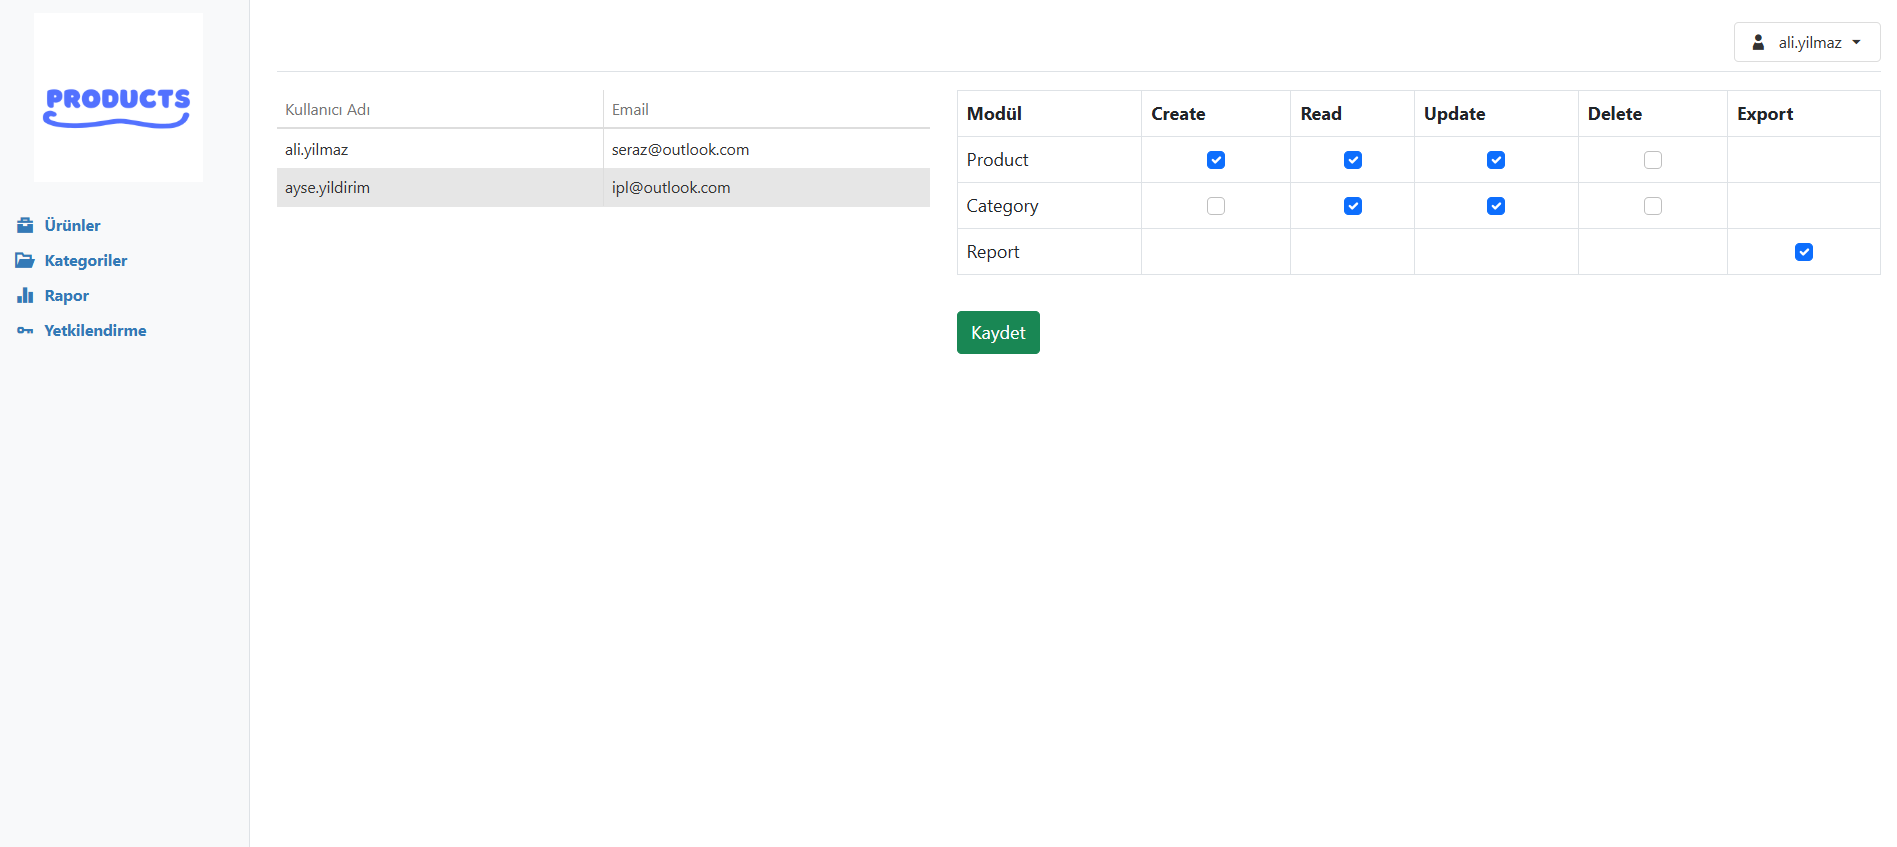
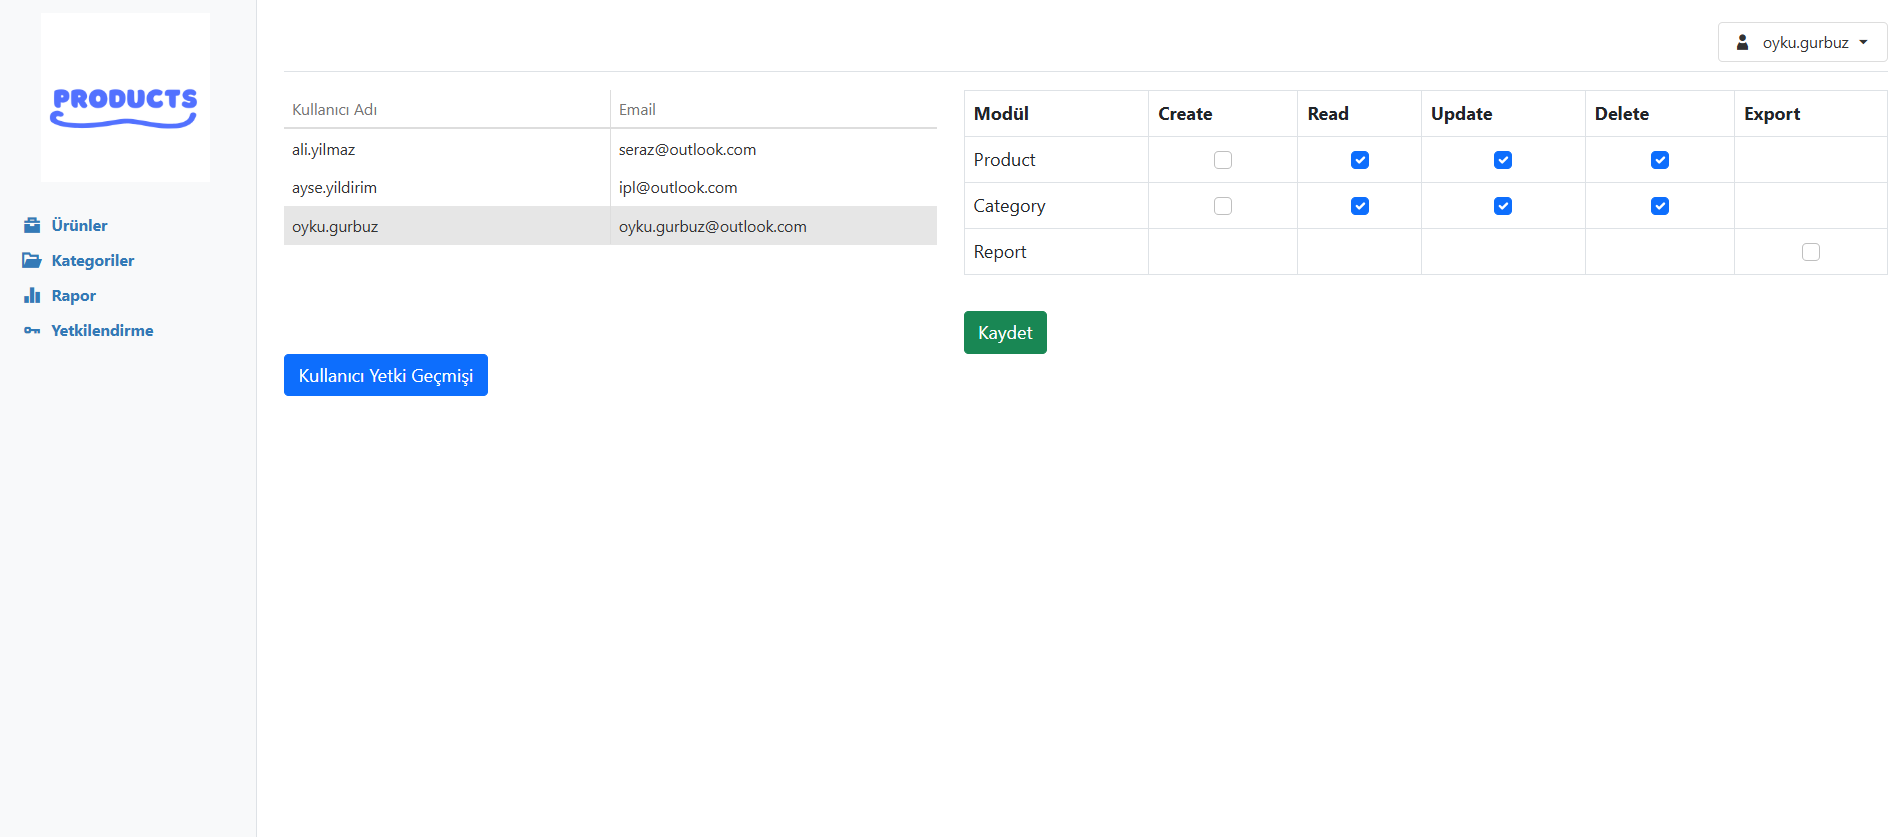
...

diff --git a/README.md b/README.md
@@ -4,7 +4,7 @@
 
 Bu proje, oluşturmuş olduğum JwtToken_Project (https://github.com/oykugurbuz/JwtToken_Project) (kullanıcı kimlik doğrulama ve yetkilendirme işlemlerini JWT (JSON Web Token) kullanarak gerçekleştiren bir ASP.NET Core Web API uygulaması) ile entegre olarak çalışır. Kullanıcıların giriş yaparak ürün/kategori CRUD işlemleri yapmasını sağlar ve DevExpress bileşenleri ile zenginleştirilmiştir. Tarih, fiyat ve kategori filtreli raporlama yapar.CRUD işlemleri için kullanıcı bazlı yetkilendirme (okuma, ekleme, güncelleme, silme) yapar.
 
-#Özellikler
+## Özellikler
 
 - Kullanıcı kimlik doğrulama işlemleri (API üzerinden JWT ile)
 - JWT token cookie olarak saklanır (HTTPOnly güvenliği ile)
@@ -15,14 +15,14 @@ Bu proje, oluşturmuş olduğum JwtToken_Project (https://github.com/oykugurbuz/
 - Kategori, fiyat ve tarih aralığına göre gelişmiş filtreleme,raporlama ve raporların iframe ile sayfa içine gömülmesi
 - DevExpress bileşenleri ile ile zengin arayüz
 
-#JWT
+## JWT
 
 - Kullanıcı, API aracılığıyla giriş yaptığında sunucudan bir JWT Token döner.
 - Bu token, cookie içerisine (HTTPOnly flag ile) kaydedilir.
 - Cookie tarayıcıda saklandığı için token güvenli bir şekilde taşınır; JavaScript erişemez.
 - Her istek otomatik olarak bu token ile yapılır; kullanıcı kimliği korunur.
 
-#Yetki Tabanlı İşlem İzni
+## Yetki Tabanlı İşlem İzni
 
 Kullanıcıların hangi işlemleri yapabileceği, yetki (permission) tablosu ve kullanıcıya bağlı izinlerle kontrol edilir.
 Bunun için özel bir [HasPermission] attribute sınıfı tanımlanmıştır.
@@ -34,8 +34,38 @@ public IActionResult CreateProduct() {
      // yalnızca bu yetkiye sahip kullanıcılar erişebilir
  }
  ```
+## Kullanıcı Yetki Geçmişi Takibi ve Filtreleme Modülü
 
-Kullanılan Teknolojiler
+Bu özellik, sistemdeki kullanıcıların hangi yetkilere sahip olduğunu, yetkilerin kim tarafından verildiğini, veriliş ve iptal tarihlerini ve aktiflik durumlarını izlemeye yarar.
+
+### Özellikler:
+#### Filtreleme Parametreleri:
+
+- Yetki verilen kullanıcı
+
+- Modül adı
+
+- Yetki adı
+
+- Yetkiyi veren kullanıcı
+
+- Yetki veriliş tarih aralığı
+
+- Aktiflik durumu (Aktif/Pasif)
+
+- (Pasif yetkiler için) İptal eden kullanıcı
+
+- (Pasif yetkiler için) İptal tarih aralığı
+
+#### AJAX ile filtreleme: 
+Sayfa yenilenmeden arama yapılır.
+
+#### Dinamik Select kutuları: 
+Modül seçildiğinde ilgili yetkiler otomatik doldurulur.
+
+#### Server-side filtreleme: 
+Tüm filtreleme işlemi Entity Framework ile backend’de yapılır.
+## Kullanılan Teknolojiler
 - ASP.NET Core MVC (.NET 8)
 
 - DevExpress JavaScript ve Reporting v24.2+
@@ -44,40 +74,40 @@ Kullanılan Teknolojiler
 
 - Cookie tabanlı JWT saklama
 
-# Uygulama Arayüzü
+## Uygulama Arayüzü
 
-## Giriş Ekranı görünümü: 
+### Giriş Ekranı görünümü: 
 
 ![Giriş ekranı görseli](screenshots/login_page.png) 
 
-## Ürünler
+### Ürünler
 
-### Ürün listesi görünümü: 
+#### Ürün listesi görünümü: 
 
 ![Ana sayfa görseli](screenshots/home_page.png)
 
-### Ürün Ekleme PopUp görünümü: 
+#### Ürün Ekleme PopUp görünümü: 
 
 ![Ürün Ekleme PopUp görseli](screenshots/product_create_popup.png)
 
-### Ürün Düzenleme PopUp görünümü: 
+#### Ürün Düzenleme PopUp görünümü: 
 
 ![Ürün Ekleme PopUp görseli](screenshots/product_update_popup.png)
 
-### Ürün Silme PopUp görünümü: 
+#### Ürün Silme PopUp görünümü: 
 
 ![Ürün Silme PopUp görseli](screenshots/product_delete_uinotify.png)
 
-##Kategoriler
+### Kategoriler
 
 ![Kategori görseli](screenshots/categorypage.png)
 
-##Rapor
-### Filtreleme:
+### Rapor
+#### Filtreleme:
 
 ![Rapor Filtreleme görseli](screenshots/report_filter.png)
 
-### Rapor Pdf
+#### Rapor Pdf
 
 ![Rapor Pdf görseli](screenshots/report_pdf.png)
 
@@ -85,7 +115,11 @@ Kullanılan Teknolojiler
 
 ![Yetkilendirme sayfası görseli](screenshots/permission.png)
 
-### Yetkili olmayan kullanıcıya geribildirim
+#### Yetkili olmayan kullanıcıya geribildirim
 
 ![Yetkili olmayan kullanıcıya geri bildirim görseli](screenshots/statuscode_403.png)
 ![Yetkili olmayan Kullanıcıya geri bildirim görseli](screenshots/statuscode_403_2.png)
+
+#### Kullanıcı Yetki Geçmişi Takibi ve Filtreleme Modülü
+
+![Kullanıcı Yetki Geçmişi Takibi ve Filtreleme Modülü görseli](screenshots/PermissionLog.png)
